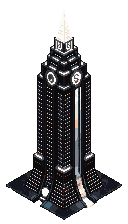
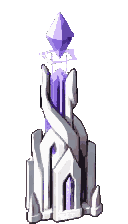
feat(carte): l'ère du démiurge redessinée — marbre et cristal violet
Dernière bande cosmique de la ville du futur (docs/PLAN-MAQUETTE-VIVANTE.md §8) : les
27 scènes moteur de la bande 9 remplacent les tours sombres violettes. Langue de l'ère
du démiurge : marbre blanc, cristal violet taillé, verre lavande, éclats de cristal en
lévitation — flèche de la pensée, bibliothèque-tour, observatoire ceint d'éclats,
capitole à pyramide de cristal, cœur d'énergie flottant, bourse au sommet détaché,
champ de collecteurs-obélisques, marché aux dalles flottantes… La nuit, le cristal
s'allume en violet (sceneEmissive.js).

- Maisons-tours des ères cosmiques : leur verre s'allume aussi la nuit, par la teinte
  de l'ère (pixelHouses.js → drawSceneEmissive, rectangle source de la boîte d'encre).

diff --git a/src/game/map/pixelHouses.js b/src/game/map/pixelHouses.js
@@ -23,6 +23,7 @@ import { houseFootprint } from './procedural/buildingGenerator.js';
 import { drawSunShadow } from './iso/isoSunShadow.js';
 import { noteReflection } from './iso/isoReflect.js';
 import { drawHouseWindows } from './houseWindows.js';
+import { drawSceneEmissive } from './sceneEmissive.js';
 
 export const pixelHousesFlag = { on: true };
 
@@ -314,8 +315,8 @@ function pixelHouseGeom(t, x, y, w, h) {
   // contrat que la boîte et le liseré juste au-dessus, pour la même raison (ni la
   // teinte ni la neige ne déplacent un pixel, elles repeignent DANS la silhouette).
   const vc = variantCanvas(key, houseTintOf(t, key), CM.season === WINTER && snowRoofTune.on);
-  if (vc) return { img: vc, bb: { x0: 0, y0: 0, w: bb.w, h: bb.h, mask: bb.mask }, dx, dy, dw, dh };
-  return { img: e.img, bb, dx, dy, dw, dh };
+  if (vc) return { img: vc, bb: { x0: 0, y0: 0, w: bb.w, h: bb.h, mask: bb.mask }, dx, dy, dw, dh, key };
+  return { img: e.img, bb, dx, dy, dw, dh, key };
 }
 
 // Dessine le sprite. RENVOIE la boîte écran RÉELLEMENT dessinée {dx, dy, dw, dh},
@@ -338,6 +339,10 @@ export function drawPixelHouse(t, x, y, w, h) {
   // La nuit, ses fenêtres s'allument (houseWindows.js) — dans le calque de lumière,
   // APRÈS la découpe : sa propre silhouette ne doit pas les effacer.
   drawHouseWindows(t, g);
+  // Skins des ères cosmiques (« <variante>-cosmic-<bande> ») : leur verre a la teinte de
+  // l'ère, il s'allume comme celui des scènes moteur (sceneEmissive.js).
+  const ci = g.key ? g.key.indexOf('-cosmic-') : -1;
+  if (ci >= 0) drawSceneEmissive(g.img, g.dx, g.dy, g.dw, g.dh, +g.key.slice(ci + 8), g.bb.x0, g.bb.y0, g.bb.w, g.bb.h);
   return { dx: g.dx, dy: g.dy, dw: g.dw, dh: g.dh, mask: g.bb && g.bb.mask };
 }
 

diff --git a/src/game/map/sceneEmissive.js b/src/game/map/sceneEmissive.js
@@ -53,7 +53,8 @@ function maskFor(img, band) {
   let m = masks.get(img);
   if (!m) { m = new Map(); masks.set(img, m); }
   if (m.has(band)) return m.get(band);
-  const w = img.naturalWidth | 0, h = img.naturalHeight | 0;
+  // Image OU canevas (les maisons passent parfois une variante cuite, enneigée).
+  const w = (img.naturalWidth || img.width) | 0, h = (img.naturalHeight || img.height) | 0;
   if (!w || !h || typeof document === 'undefined') { m.set(band, null); return null; }
   const c = document.createElement('canvas');
   c.width = w; c.height = h;
@@ -80,9 +81,10 @@ function maskFor(img, band) {
   return res;
 }
 
-// Dépose la lumière d'une scène blittée en (dx, dy, dw, dh). Sans effet le jour, en
-// vue lointaine, ou quand le calque de lumière n'est pas armé.
-export function drawSceneEmissive(img, dx, dy, dw, dh, band) {
+// Dépose la lumière d'une scène blittée en (dx, dy, dw, dh) — depuis le rectangle
+// source (sx, sy, sw, sh) quand le blit en prend un (les maisons blittent leur boîte
+// d'encre). Sans effet le jour, en vue lointaine, ou quand le calque n'est pas armé.
+export function drawSceneEmissive(img, dx, dy, dw, dh, band, sx, sy, sw, sh) {
   if (!EMISSIVE.on || !img) return;
   const night = Math.max(0, Math.min(1, ((CM.nightF || 0) - 0.22) / 0.65));
   if (!night || CM.lodActive) return;
@@ -93,7 +95,8 @@ export function drawSceneEmissive(img, dx, dy, dw, dh, band) {
   lc.save();
   lc.globalAlpha = night * EMISSIVE.k;
   lc.imageSmoothingEnabled = false;
-  lc.drawImage(mask, dx, dy, dw, dh);
+  if (sw == null) lc.drawImage(mask, dx, dy, dw, dh);
+  else lc.drawImage(mask, sx, sy, sw, sh, dx, dy, dw, dh);
   lc.restore();
 }
 if (typeof window !== 'undefined') {

diff --git a/src/game/map/cityEngineSprites.js b/src/game/map/cityEngineSprites.js
@@ -89,6 +89,11 @@ export const COSMIC_SCENE_KEYS = new Set([
   'cosmic-storytellers-8', 'cosmic-academies-8', 'cosmic-ancestral_cult-8', 'cosmic-universities-8',
   'cosmic-printing_houses-8', 'cosmic-archive_grids-8', 'cosmic-sewers-8', 'cosmic-courthouses-8',
   'cosmic-public_works-8', 'cosmic-ruin_architects-8', 'cosmic-bureaucracy-8', 'cosmic-watch-8',
+  'cosmic-schools-9', 'cosmic-think_tanks-9', 'cosmic-libraries-9', 'cosmic-observatories-9',
+  'cosmic-ministries-9', 'cosmic-scribes-9', 'cosmic-storytellers-9', 'cosmic-academies-9',
+  'cosmic-ancestral_cult-9', 'cosmic-universities-9', 'cosmic-printing_houses-9', 'cosmic-archive_grids-9',
+  'cosmic-sewers-9', 'cosmic-courthouses-9', 'cosmic-public_works-9', 'cosmic-ruin_architects-9',
+  'cosmic-bureaucracy-9', 'cosmic-watch-9',
 ]);
 // Les scènes du STYLE NACRE (savoir/infra ci-dessus + les familles économie, dont
 // l'image `<famille>-cosmic-<bande>` a été redessinée en place). Leur verre s'allume la
@@ -99,7 +104,9 @@ export const COSMIC_PEARL = new Set([
   'guild-cosmic-7', 'mint-cosmic-7', 'bank-cosmic-7', 'port-cosmic-7',
   'mill-cosmic-7', 'market-cosmic-8', 'forager-cosmic-8', 'granary-cosmic-8',
   'caravan-cosmic-8', 'guild-cosmic-8', 'mint-cosmic-8', 'bank-cosmic-8',
-  'port-cosmic-8', 'mill-cosmic-8',
+  'port-cosmic-8', 'mill-cosmic-8', 'market-cosmic-9', 'forager-cosmic-9',
+  'granary-cosmic-9', 'caravan-cosmic-9', 'guild-cosmic-9', 'mint-cosmic-9',
+  'bank-cosmic-9', 'port-cosmic-9', 'mill-cosmic-9',
 ]);
 const isPearl = (k) => COSMIC_PEARL.has(k) || COSMIC_SCENE_KEYS.has(k);
 export function cosmicSceneKey(kind, band) {
